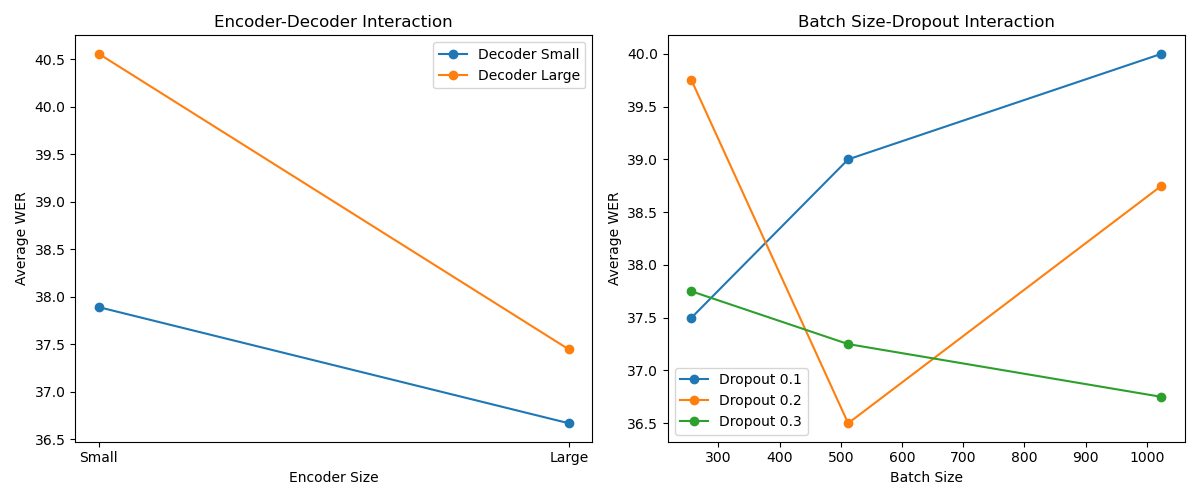
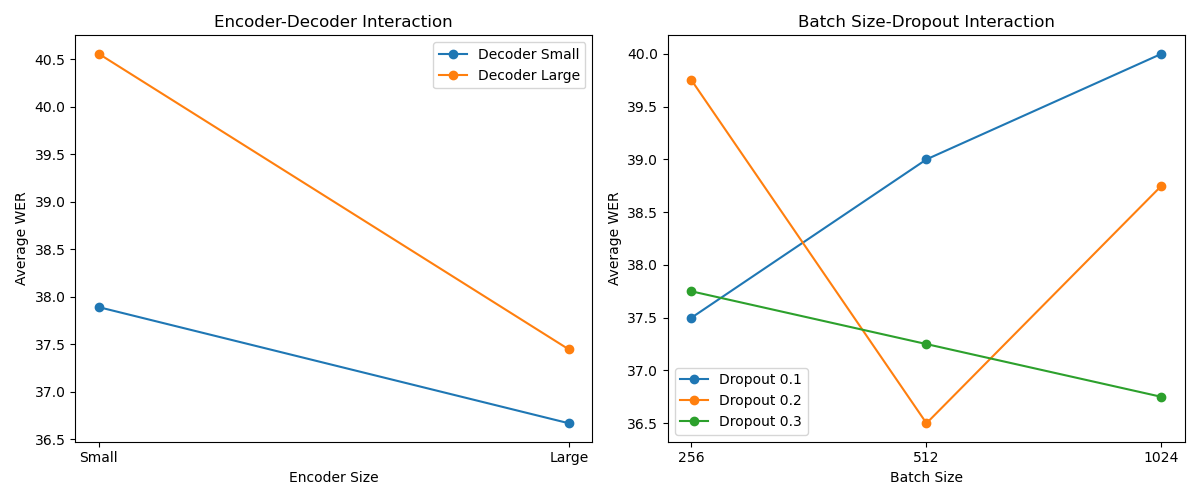
New Graph for interaction_effects.png

diff --git a/models/transformer/analyse_hp.py b/models/transformer/analyse_hp.py
@@ -101,6 +101,8 @@ for dropout in [0.1, 0.2, 0.3]:
     subset = df[df['dropout'] == dropout]
     group = subset.groupby('batch_size')['WER'].mean()
     plt.plot(group.index, group.values, marker='o', label=f'Dropout {dropout}')
+plt.xscale('log', base=2)
+plt.xticks([256, 512, 1024], ['256', '512', '1024'])
 plt.title('Batch Size-Dropout Interaction')
 plt.xlabel('Batch Size')
 plt.ylabel('Average WER')
